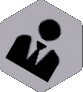
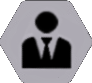
fixed pieces directions

diff --git a/src/shared/pieces.js b/src/shared/pieces.js
@@ -105,6 +105,14 @@ function getAgentDirections (agent, pieces, pieceState) {
     return [];
 }
 
+function getCeoDirections (ceo, pieces, pieceState) {
+    if (!ceo.direction) {
+        return directions.getAll();
+    }
+
+    return [ceo.direction];
+}
+
 function isDifferentPiece (piece1, piece2) {
     return piece1.id !== piece2.id;
 }
@@ -119,14 +127,37 @@ function isSamePosition (piece1, piece2) {
 function movePieces (pieces, id, cell) {
     return pieces.map(piece => {
         if (piece.id === id) {
-            if (!piece.position) {
-                piece.selectedDirection = [1, 0];
+            switch (API.getType(id)) {
+                case AGENT:
+                    return moveAgent(piece, cell);
+                case CEO:
+                    return moveCeo(piece, cell);
+                default:
+                    return;
             }
-
-            piece.position = cell;
         }
 
         return piece;
+    });
+}
+
+function moveAgent (agent, cell) {
+    const agentDirection = agent.position ? agent.selectedDirection : [1, 0];
+
+    return Object.assign({}, agent, {
+        position: cell,
+        selectedDirection: agentDirection
+    });
+}
+
+function moveCeo (ceo, cell) {
+    const ceoDirection = ceo.position ? cells.getDirection(ceo.position, cell) : undefined;
+    const ceoSelectedDirection = ceo.position ? ceoDirection : [1, 0];
+
+    return Object.assign({}, ceo, {
+        position: cell,
+        selectedDirection: ceoSelectedDirection,
+        direction: ceoDirection
     });
 }
 
@@ -151,10 +182,6 @@ function killPieces (pieces, movedId) {
     });
 
     return killedPieces;
-}
-
-function getType (piece) {
-    return piece && piece.id.charAt(2);
 }
 
 function togglePiece (piece) {
@@ -189,10 +216,9 @@ const API = {
     },
 
     getHighlightedCells(pieces) {
-        const selectedPiece = API.getSelectedPiece(pieces);
-        const pieceType = getType(selectedPiece);
+        const selectedPiece = API.getSelectedPiece(pieces) || {id: ''};
 
-        switch (pieceType) {
+        switch (API.getType(selectedPiece.id)) {
             case AGENT:
                 return getAgentCells(selectedPiece, pieces);
             case CEO:
@@ -218,11 +244,11 @@ const API = {
     },
 
     getPossibleDirections(piece, pieces, pieceState) {
-        const pieceType = getType(piece);
-
-        switch (pieceType) {
+        switch (API.getType(piece.id)) {
             case AGENT:
                 return getAgentDirections(piece, pieces, pieceState);
+            case CEO:
+                return getCeoDirections(piece, pieces, pieceState);
             default:
                 return [];
         }

diff --git a/src/client/styles/styles.scss b/src/client/styles/styles.scss
@@ -359,10 +359,10 @@ body {
 
 .piece {
     position: absolute;
-    width: 80%;
-    top: -50%;
+    width: 92%;
+    top: -43%;
     bottom: 0;
-    left: 0;
+    left: -6%;
     right: 0;
     margin-left: 10%;
     margin-top: 13%;
@@ -371,61 +371,55 @@ body {
     &--direction {
         &-up {
             &-right {
-                transform: rotate(-60deg);
+                transform: rotate(30deg);
             }
             &-left {
-                transform: rotate(-120deg);
+                transform: rotate(-30deg);
             }
         }
         &-down {
             &-right {
-                transform: rotate(60deg);
+                transform: rotate(150deg);
             }
             &-left {
-                transform: rotate(120deg);
+                transform: rotate(-150deg);
             }
         }
         &-right {
-            transform: rotate(0deg);
+            transform: rotate(90deg);
         }
         &-left {
-            transform: rotate(180deg);
+            transform: rotate(-90deg);
         }
     }
 
     &--hq {
-        width: 18%;
+        width: 20%;
         margin: 0;
 
         &--A1 {
-            transform: rotate(-90deg);
-            top: 42%;
-            left: 4%;
+            top: 44%;
+            left: 3%;
         }
         &--A2 {
-            transform: rotate(-90deg);
-            top: 23.5%;
-            left: 22.5%;
+            top: 24.5%;
+            left: 21.5%;
         }
         &--A3 {
-            transform: rotate(-90deg);
-            top: 5%;
-            left: 41%;
+            top: 6%;
+            left: 40%;
         }
         &--A4 {
-            transform: rotate(-90deg);
-            top: 23.5%;
-            left: 59%;
+            top: 24.5%;
+            left: 58%;
         }
         &--A5 {
-            transform: rotate(-90deg);
-            top: 42%;
-            left: 77.5%;
+            top: 44%;
+            left: 76.5%;
         }
         &--C {
-            transform: rotate(-30deg);
-            top: 43%;
-            left: 41%;
+            top: 44%;
+            left: 40%;
         }
     }
 
